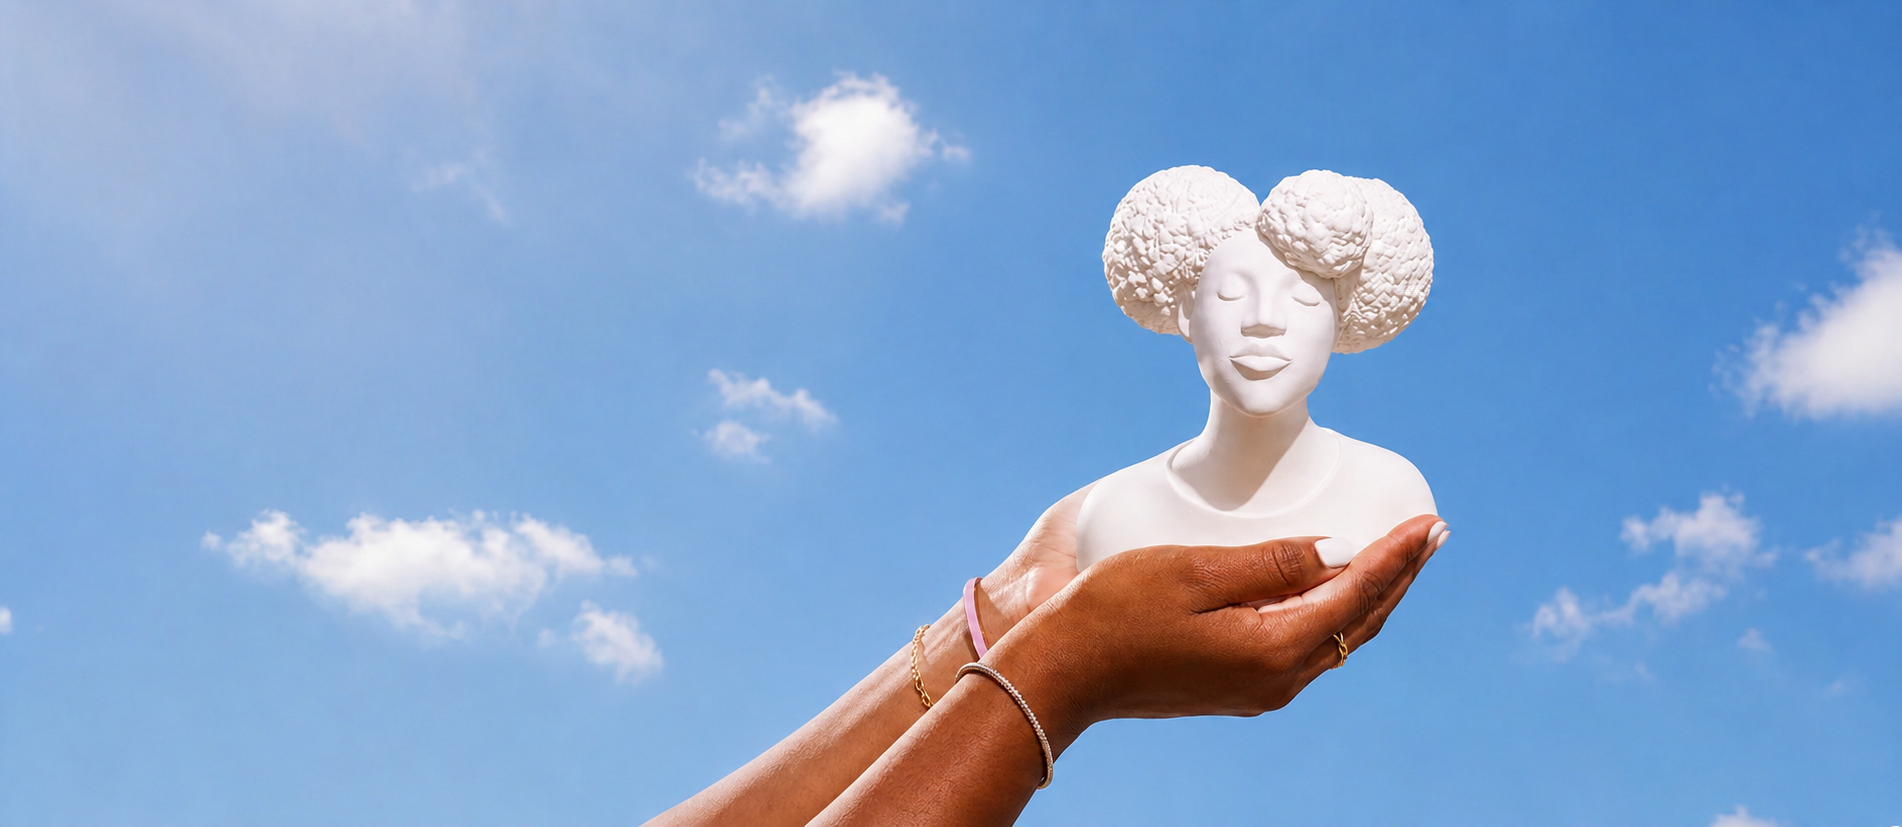
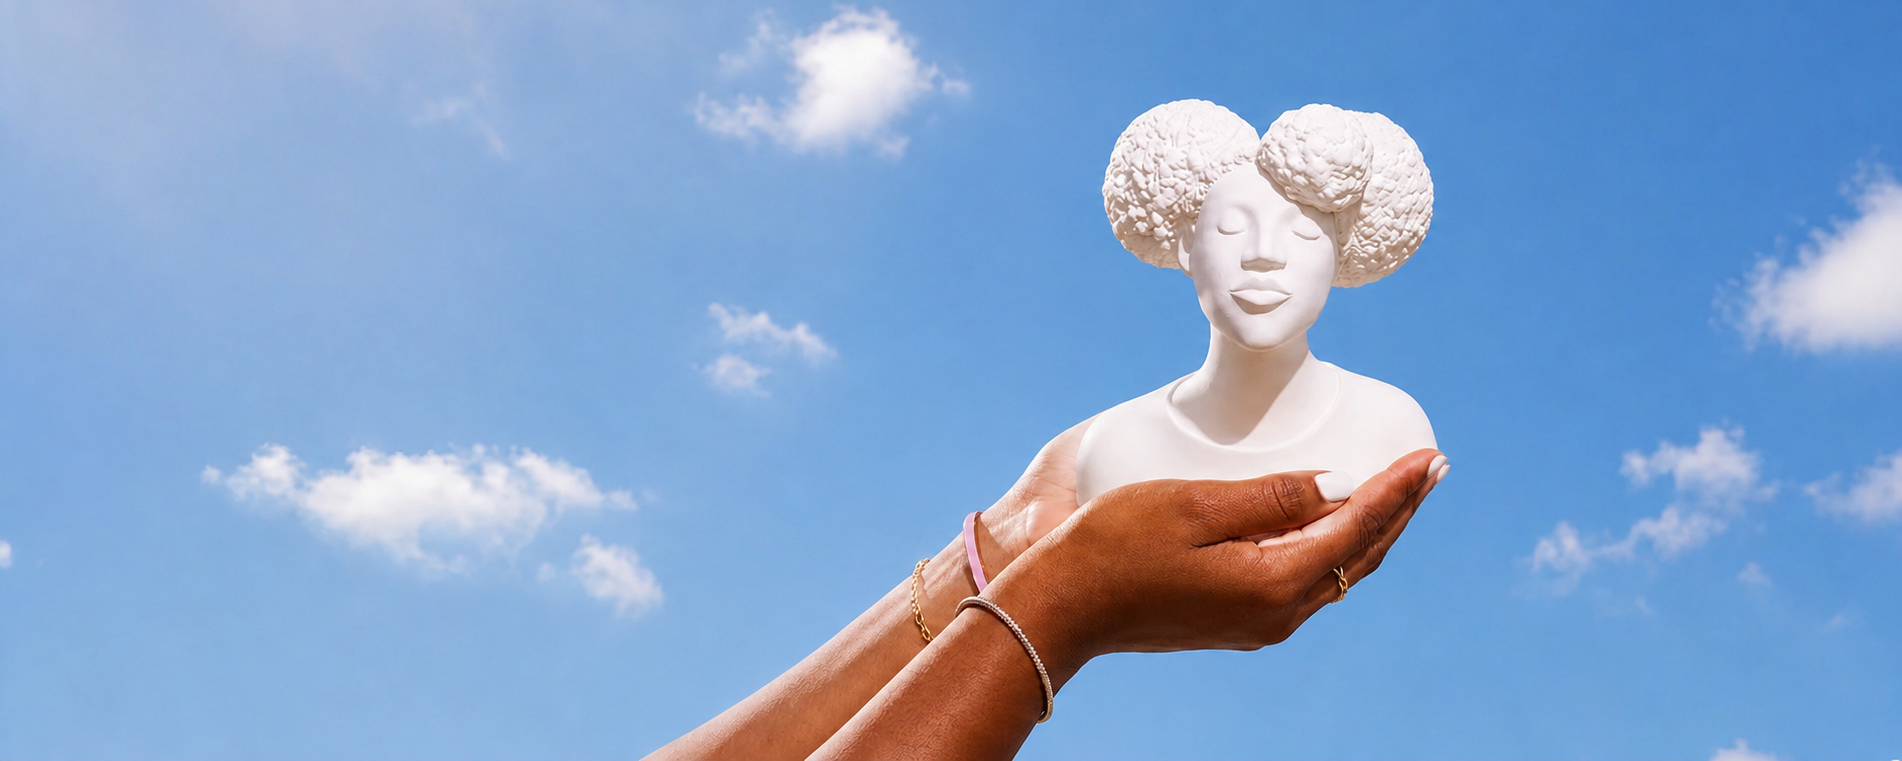
Add mobile nav toggle and responsive tweaks
Introduce a mobile hamburger toggle (button with aria-label) and corresponding toggleNav/showPage logic to open/close the nav. Add mobile nav styles and transitions (.nav-toggle, .nav-links.open) and hide the CTA on small screens. Add a hero subtitle and a separate hero stat strip for better mobile presentation; collapse the inline hero stat on small screens. Replace several inline SVG icons with updated paths. Reduce overall section paddings and hero min-height for tighter spacing, adjust --hairline opacity, and update the hero image (images/hero.png). Also remove an outdated mission-banner subcopy.

diff --git a/style.css b/style.css
@@ -9,7 +9,7 @@
   --cyan: #048A81;
   --ink: #2a1a1a;
   --body: rgba(42,26,26,0.55);
-  --hairline: rgba(42,26,26,0.1);
+  --hairline: rgba(42,26,26,0.22);
   --font-display: 'Cormorant Garamond', Georgia, serif;
   --font-body: 'Inter', sans-serif;
 }
@@ -46,7 +46,6 @@ nav {
   top: 0;
   z-index: 100;
 }
-
 .nav-logo {
   font-family: var(--font-display);
   font-size: 1.35rem;
@@ -88,6 +87,31 @@ nav {
 
 .nav-links a:hover { color: var(--ink); }
 
+.nav-toggle {
+  display: none;
+  flex-direction: column;
+  justify-content: center;
+  gap: 5px;
+  width: 32px;
+  height: 32px;
+  background: none;
+  border: none;
+  cursor: pointer;
+  padding: 0;
+}
+
+.nav-toggle span {
+  display: block;
+  width: 100%;
+  height: 1.5px;
+  background: var(--ink);
+  transition: transform 0.25s ease, opacity 0.25s ease;
+}
+
+.nav-toggle.open span:nth-child(1) { transform: translateY(6.5px) rotate(45deg); }
+.nav-toggle.open span:nth-child(2) { opacity: 0; }
+.nav-toggle.open span:nth-child(3) { transform: translateY(-6.5px) rotate(-45deg); }
+
 .nav-cta,
 .btn-primary,
 .submit-btn {
@@ -127,7 +151,7 @@ section.active { display: block; }
   position: relative;
   display: flex;
   align-items: center;
-  min-height: 86vh;
+  min-height: 78vh;
   background:
     linear-gradient(100deg, color-mix(in srgb, var(--floral) 92%, transparent) 0%, color-mix(in srgb, var(--floral) 45%, transparent) 35%, color-mix(in srgb, var(--floral) 5%, transparent) 75%),
     url("images/hero.png");
@@ -180,6 +204,19 @@ section.active { display: block; }
   margin-bottom: 1.4rem;
 }
 
+.hero-subtitle {
+  font-size: 17px;
+  color: var(--ink);
+  opacity: 0.75;
+  max-width: 480px;
+  margin-bottom: 0.5rem;
+}
+
+.hero-subtitle span {
+  color: var(--raspberry);
+  font-style: italic;
+}
+
 .hero-title em,
 .section-title em,
 .mission-hero h1 em,
@@ -195,7 +232,7 @@ section.active { display: block; }
   gap: 0.5rem;
   flex-wrap: wrap;
   justify-content: flex-start;
-  margin-top: 2.25rem;
+  margin-top: 0.75rem;
 }
 
 .hero-stat {
@@ -208,7 +245,7 @@ section.active { display: block; }
 }
 
 .founder-section {
-  padding: 4.5rem 2.5rem;
+  padding: 3rem 2.5rem;
   border-top: 0.5px solid var(--hairline);
   background: var(--floral);
 }
@@ -304,7 +341,7 @@ section.active { display: block; }
 .founder-text p strong { color: var(--ink); font-weight: 500; }
 
 .collab-section {
-  padding: 4.5rem 2.5rem;
+  padding: 3rem 2.5rem;
   text-align: center;
   border-top: 0.5px solid var(--hairline);
   background: var(--floral);
@@ -436,7 +473,7 @@ section.active { display: block; }
 }
 
 .closing-section {
-  padding: 5.5rem 2.5rem;
+  padding: 3.5rem 2.5rem;
   text-align: center;
   border-top: 0.5px solid var(--hairline);
   background: color-mix(in srgb, var(--lavender) 8%, var(--floral));
@@ -532,7 +569,7 @@ section.active { display: block; }
   background: var(--floral);
 }
 
-.section-pad { padding: 4.5rem 2.5rem; }
+.section-pad { padding: 3rem 2.5rem; }
 
 .section-header {
   text-align: center;
@@ -670,7 +707,7 @@ section.active { display: block; }
 }
 
 .impact-section {
-  padding: 4.5rem 2.5rem;
+  padding: 3rem 2.5rem;
   text-align: center;
   border-top: 0.5px solid var(--hairline);
 }
@@ -696,7 +733,7 @@ section.active { display: block; }
 .shop-hero,
 .mission-hero {
   background: var(--floral);
-  padding: 4.5rem 2.5rem 3rem;
+  padding: 3rem 2.5rem 2rem;
   text-align: center;
   border-bottom: 0.5px solid var(--hairline);
 }
@@ -781,7 +818,7 @@ section.active { display: block; }
 }
 
 .mission-cta-block {
-  padding: 4.5rem 2.5rem;
+  padding: 3rem 2.5rem;
   text-align: center;
   border-top: 0.5px solid var(--hairline);
 }
@@ -795,7 +832,7 @@ section.active { display: block; }
   align-items: stretch;
   max-width: 960px;
   margin: 0 auto;
-  padding: 4.5rem 2.5rem;
+  padding: 3rem 2.5rem;
 }
 
 .about-visual {
@@ -822,7 +859,7 @@ section.active { display: block; }
 .contact-wrap {
   max-width: 600px;
   margin: 0 auto;
-  padding: 4.5rem 2.5rem;
+  padding: 3rem 2.5rem;
 }
 
 .contact-wrap h2 { margin-bottom: 0.65rem; }
@@ -961,7 +998,32 @@ footer {
 
 @media (max-width: 720px) {
   nav { padding: 0 1.2rem; }
-  .nav-links { display: none; }
+  .nav-cta { display: none; }
+  .nav-toggle { display: flex; flex-shrink: 0; }
+  .nav-links {
+    display: flex;
+    flex-direction: column;
+    align-items: flex-start;
+    gap: 1.1rem;
+    position: absolute;
+    top: 100%;
+    left: 0;
+    right: 0;
+    background: var(--floral);
+    border-bottom: 0.5px solid var(--hairline);
+    padding: 1.25rem 1.2rem;
+    transform: translateY(-10px);
+    opacity: 0;
+    visibility: hidden;
+    pointer-events: none;
+    transition: transform 0.2s ease, opacity 0.2s ease;
+  }
+  .nav-links.open {
+    transform: translateY(0);
+    opacity: 1;
+    visibility: visible;
+    pointer-events: auto;
+  }
   .hero,
   .section-pad,
   .impact-section,
@@ -1129,6 +1191,27 @@ nav {
   }
   .hero-stat {
     max-width: 100%;
+  }
+}
+
+.hero-text .hero-stat { display: none; }
+
+.hero-stat-strip {
+  display: block;
+  background: var(--raspberry);
+  color: var(--floral);
+  padding: 0.6rem 1.5rem;
+  font-size: 14px;
+  font-weight: 500;
+  letter-spacing: 0.02em;
+  text-align: center;
+}
+
+@media (max-width: 768px) {
+  .hero-stat-strip {
+    padding: 1.1rem 1.5rem;
+    font-size: 16px;
+    text-align: left;
   }
 }
 

diff --git a/index.html b/index.html
@@ -23,6 +23,9 @@
       <a onclick="showPage('contact')">Contact</a>
     </div>
     <button class="nav-cta" onclick="showPage('shop')">Shop Now</button>
+    <button class="nav-toggle" onclick="toggleNav()" aria-label="Toggle navigation menu">
+      <span></span><span></span><span></span>
+    </button>
   </nav>
 
   <!-- ═══════════ HOME ═══════════ -->
@@ -32,6 +35,7 @@
       <div class="hero-text">
         <p class="hero-eyebrow">Candles with a cause</p>
         <h1 class="hero-title">Burn bright.<br><em>Give back.</em></h1>
+        <p class="hero-subtitle">Handcrafted candles with a women-forward mission.</p>
         <p class="hero-stat">50% of every purchase funds feminine hygiene products for women in need.</p>
         <div class="hero-btns">
           <button class="btn-primary" onclick="showPage('shop')">Shop Candles</button>
@@ -39,6 +43,7 @@
         </div>
       </div>
     </div>
+    <p class="hero-stat-strip">50% of every purchase funds feminine hygiene products for women in need.</p>
 
     <!-- FOUNDER STORY -->
     <div class="founder-section">
@@ -74,7 +79,6 @@
     <div class="mission-banner">
       <p class="section-eyebrow" style="color:var(--floral); opacity:0.8;">Backed by Nation of Diversity</p>
       <strong>50% of every purchase</strong> goes directly toward feminine hygiene products &amp; women's care resources: pads, tampons, and basic care essentials delivered to women in shelters and underserved communities.
-      <p class="mission-banner-sub">Every candle you light funds feminine care products for women in need. That's the deal: light a flame, change a life.</p>
     </div>
 
     <!-- PRODUCT -->
@@ -106,7 +110,7 @@
       <div class="pillars-grid">
         <div class="pillar-item">
           <span class="trust-icon">
-            <svg viewBox="0 0 24 24"><path d="M12 3s-1 2.5-1 5.5 1 4 1 4-1 1-1 3 1 3 1 3"/><path d="M9.5 8.5s-2 1.5-2 4 2 3.5 4.5 3.5 4.5-1 4.5-3.5-2-4-2-4"/><ellipse cx="12" cy="20" rx="2.5" ry="1"/></svg>
+            <svg viewBox="0 0 24 24"><path d="M12 2c1.4 1.9 2 3.1 2 4.2a2 2 0 0 1-4 0c0-1.1.6-2.3 2-4.2z"/><rect x="9" y="9" width="6" height="12" rx="1"/><line x1="9" y1="13" x2="15" y2="13"/></svg>
           </span>
           <h3>Hand-Poured</h3>
           <p>Every candle is poured by hand in small batches, with care taken at each step, so what you receive feels personal, not mass-produced.</p>
@@ -127,7 +131,7 @@
         </div>
         <div class="pillar-item">
           <span class="trust-icon">
-            <svg viewBox="0 0 24 24"><path d="M20.84 4.61a5.5 5.5 0 0 0-7.78 0L12 5.67l-1.06-1.06a5.5 5.5 0 0 0-7.78 7.78L12 21.23l7.78-7.78a5.5 5.5 0 0 0 0-7.78z"/></svg>
+            <svg viewBox="0 0 24 24"><path d="M19 14c1.49-1.46 3-3.21 3-5.5A5.5 5.5 0 0 0 16.5 3c-1.76 0-3 .5-4.5 2-1.5-1.5-2.74-2-4.5-2A5.5 5.5 0 0 0 2 8.5c0 2.29 1.51 4.04 3 5.5l7 7Z"/></svg>
           </span>
           <h3>Gives Back</h3>
           <p>50% of every purchase funds feminine hygiene products and care resources for women in need, every candle, every time.</p>
@@ -190,7 +194,7 @@
       </div>
       <div class="mission-card">
         <span class="mission-card-icon">
-          <svg viewBox="0 0 24 24"><path d="M9 3H5a2 2 0 0 0-2 2v14a2 2 0 0 0 2 2h14a2 2 0 0 0 2-2V9"/><path d="M9 3v6h6"/><path d="M9 3l6 6"/></svg>
+          <svg viewBox="0 0 24 24"><rect x="2" y="7" width="20" height="14" rx="2"/><path d="M8 7V5a2 2 0 0 1 2-2h4a2 2 0 0 1 2 2v2"/><path d="M12 11v4M10 13h4"/></svg>
         </span>
         <h3>Health Resources</h3>
         <p>We partner with local clinics and nonprofits to ensure women get access to reproductive health education and basic care supplies.</p>

diff --git a/script.js b/script.js
@@ -6,6 +6,14 @@ function showPage(id) {
     el.classList.add('active');
     window.scrollTo({ top: 0, behavior: 'smooth' });
   }
+  document.querySelector('.nav-links').classList.remove('open');
+  document.querySelector('.nav-toggle').classList.remove('open');
+}
+
+// ── MOBILE NAV TOGGLE ──
+function toggleNav() {
+  document.querySelector('.nav-links').classList.toggle('open');
+  document.querySelector('.nav-toggle').classList.toggle('open');
 }
 
 // ── TOAST NOTIFICATION ──